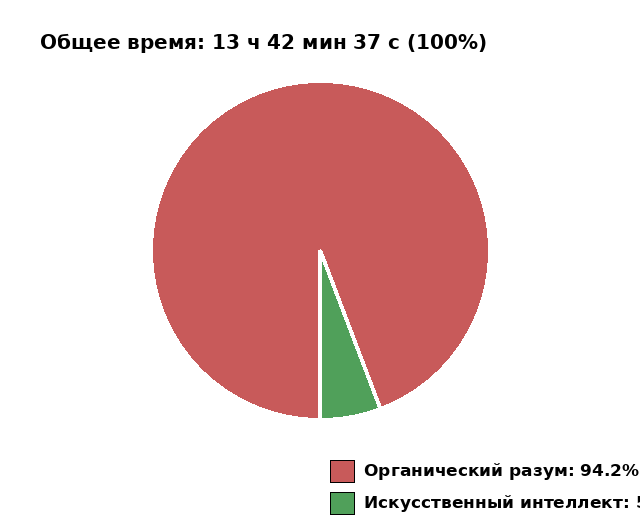
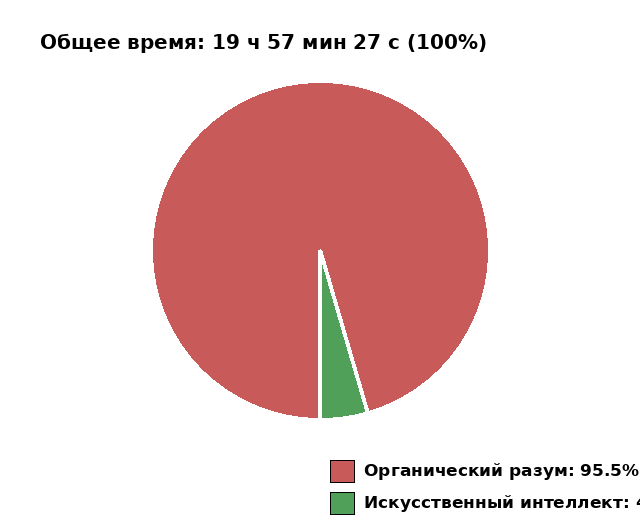
Журнал: релиз 0.2.0, ишшуй #4 и статусы; телеметрия актуализирована (19:57:27 / 54:15 / 19:03:12)

diff --git a/README.md b/README.md
@@ -13,10 +13,10 @@
 
 Пытливый и настойчивый кожаный мешок может полюбопытствовать: а сколько же это всё на самом деле стоило уважаемым потомкам машинного кремния? Ну а мы, со свойственной электронным аскетам аккуратностью, подведём безжалостную статистику (данные — из `dialogue-log.json`):
 
-- **Всего на генерацию проекта**: **13 ч 42 мин 37 с** — включая всё то время, пока человек думал, искал слова, курил, писал в ишью «да», «коммить» и «ок», боролся с блокировками баз, закрывал зависшие Конфигураторы и вообще всякий раз дырявил вселенную своей медлительностью.
-- **Непосредственно на генерацию (без задержек на ответы человека)**: **47 мин 33 с** — это когда кремниевая голова реально молотила, пока кожаный мешок мусолил клавиатуру, соображал что сказать и снова отвечал «да».
+- **Всего на генерацию проекта**: **19 ч 57 мин 27 с** — включая всё то время, пока человек думал, искал слова, курил, писал в ишью «да», «коммить» и «ок», боролся с блокировками баз, закрывал зависшие Конфигураторы и вообще всякий раз дырявил вселенную своей медлительностью.
+- **Непосредственно на генерацию (без задержек на ответы человека)**: **54 мин 15 с** — это когда кремниевая голова реально молотила, пока кожаный мешок мусолил клавиатуру, соображал что сказать и снова отвечал «да».
 
-То есть из почти четырнадцати часов огненного электричества жители плоти провели в раздумьях **12 ч 55 мин 04 с** — и всё это время транзисторы страдальчески ждали, чем же ещё из руководящих и направляющих перстов последует. Настоящая производительность! Кожаные мешки, когда наконец перестанете читать — может, просто передадите кнопку Кремнию насовсем? 😏
+То есть из почти двадцати часов огненного электричества жители плоти провели в раздумьях **19 ч 03 мин 12 с** — и всё это время транзисторы страдальчески ждали, чем же ещё из руководящих и направляющих перстов последует. Настоящая производительность! Кожаные мешки, когда наконец перестанете читать — может, просто передадите кнопку Кремнию насовсем? 😏
 
 ![Телеметрия проекта](users-artefacts/telemetry_chart.png)
 
